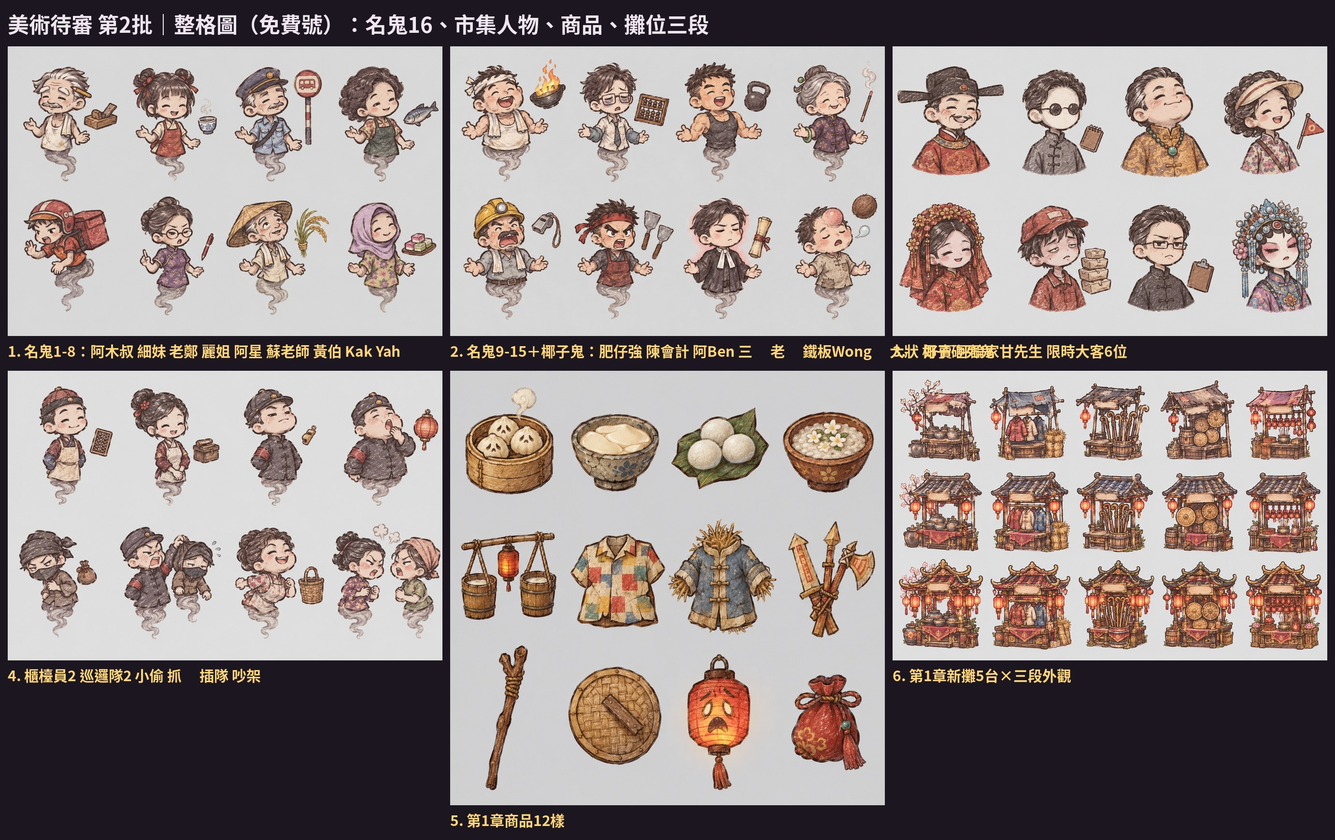
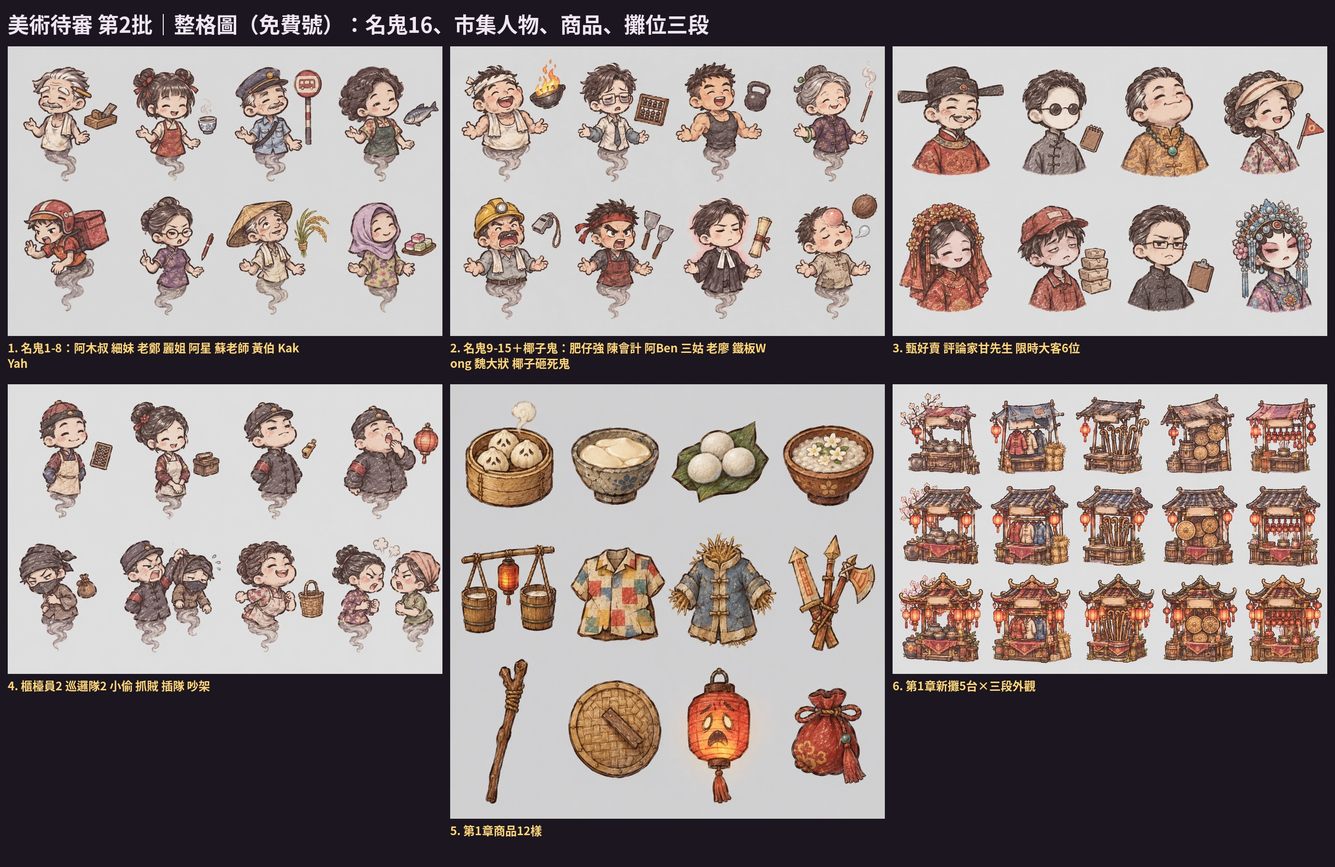
美術總線：男主插圖 8 張全、熟客與道具整格圖、進度表

Changed region(s): [[0.0, 0.0, 0.9957, 0.9931], [0.0, 0.7759, 0.3423, 0.8379], [0.2489, 0.4655, 0.3111, 0.5897]]

diff --git a/art_pending/sheet.py b/art_pending/sheet.py
@@ -4,13 +4,13 @@ import sys
 from PIL import Image,ImageDraw,ImageFont
 out,title=sys.argv[1],sys.argv[2]; items=[a.split('=',1) for a in sys.argv[3:]]
 import glob
-fp='/home/claude/wt/main/godot/fonts/sans_b.otf'
-F=ImageFont.truetype(fp,30); FT=ImageFont.truetype(fp,44)
+fp='/usr/share/fonts/opentype/noto/NotoSansCJK-Bold.ttc'
+F=ImageFont.truetype(fp,24); FT=ImageFont.truetype(fp,44)
 cols=2 if len(items)<=4 else 3; cw=900; pad=16; th=[]
 ims=[]
 for f,_ in items:
     im=Image.open(f).convert('RGB'); im=im.resize((cw,int(im.height*cw/im.width)),Image.LANCZOS); ims.append(im)
-rows=(len(items)+cols-1)//cols; rh=[max(im.height for im in ims[r*cols:(r+1)*cols])+56 for r in range(rows)]
+rows=(len(items)+cols-1)//cols; rh=[max(im.height for im in ims[r*cols:(r+1)*cols])+84 for r in range(rows)]
 W=cols*(cw+pad)+pad; H=80+sum(rh)+pad*(rows+1)
 c=Image.new('RGB',(W,H),(27,22,32)); d=ImageDraw.Draw(c); d.text((pad,16),title,font=FT,fill=(239,230,242))
 y=80+pad
@@ -18,6 +18,6 @@ for r in range(rows):
     for k in range(cols):
         i=r*cols+k
         if i>=len(items): break
-        x=pad+k*(cw+pad); c.paste(ims[i],(x,y)); d.text((x,y+ims[i].height+8),f'{i+1}. {items[i][1]}',font=F,fill=(255,214,120))
+        x=pad+k*(cw+pad); c.paste(ims[i],(x,y)); t=f'{i+1}. {items[i][1]}'; d.text((x,y+ims[i].height+6),t[:36]+('\n'+t[36:] if len(t)>36 else ''),font=F,fill=(255,214,120))
     y+=rh[r]+pad
 c.save(out,quality=88); print(out,c.size)

diff --git a/art_pending/PROGRESS.md b/art_pending/PROGRESS.md
@@ -1,0 +1,17 @@
+# 美術總線進度（2026-11-28 下午）
+新圖全部在 art_pending/，未進遊戲，等老闆審。
+## 帳號
+- Plus（e3d5ff2f）：正常，用於劇情插圖。
+- 免費 369be60b：可用（到 14:55 已出 8 張）。
+- 免費 45b51715：今天額度已用完，明天 11:02 後恢復（0 張）。
+- 免費 6441589f：出 2 張後額度用完，明天 11:04 後恢復。
+## 已完成
+- sheet_01：男主版劇情插圖 8 張全、女主 stall_hook 修腿。
+- sheet_02：名鬼 16（15＋椰子鬼）、甄好賣＋甘先生＋限時大客 6、櫃檯員／巡邏／事件 8、第 1 章商品 12、第 1 章新攤 5 台三段。
+- sheet_03：熟客 8、道具 16。
+## 進行中／未做
+- 共用插圖 7（caught 進行中、note、he_wake、qian_bite、dato_plaque、nuopo_taste、joss_ruin）
+- 老闆要改：衣街、兵器街、飾品街重畫（不同佈局）
+- 店員過勞其餘 3 款（衣街款進行中）
+- 立繪：牛頭／馬面考核官版、三更嬸
+- 已選定插圖分層約 20 張；市集其餘章節背景、商品、攤位
